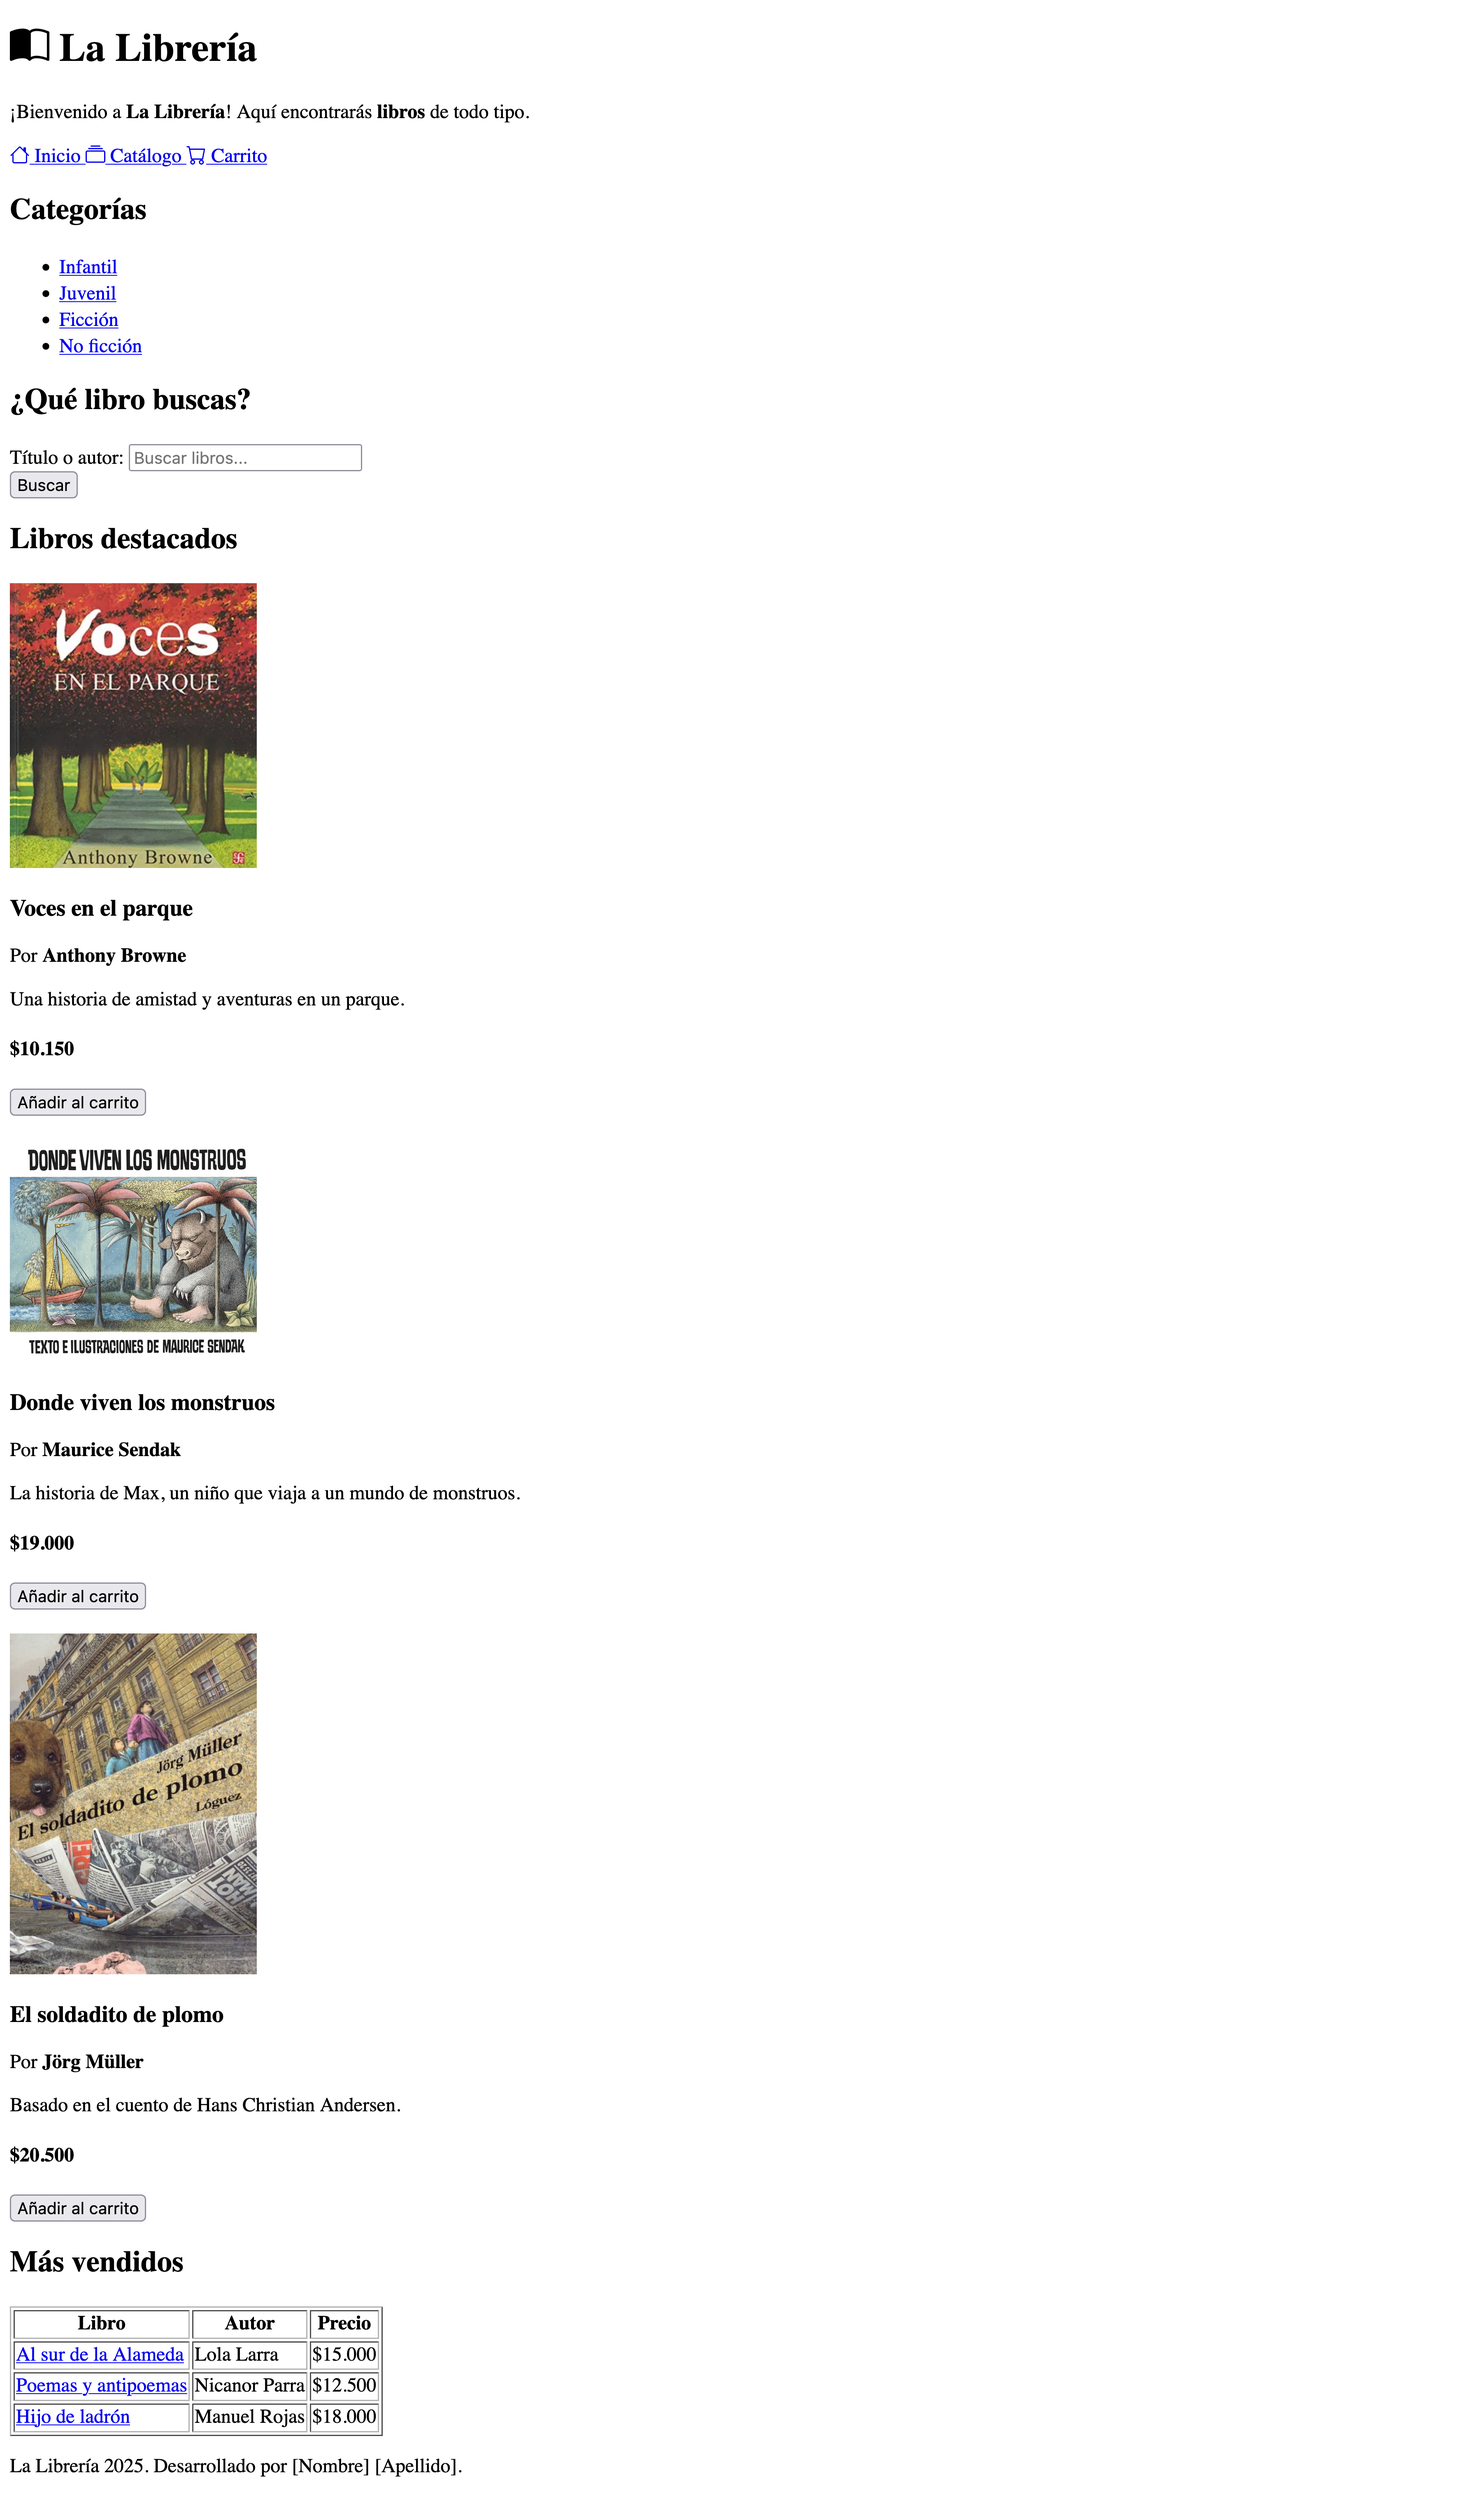
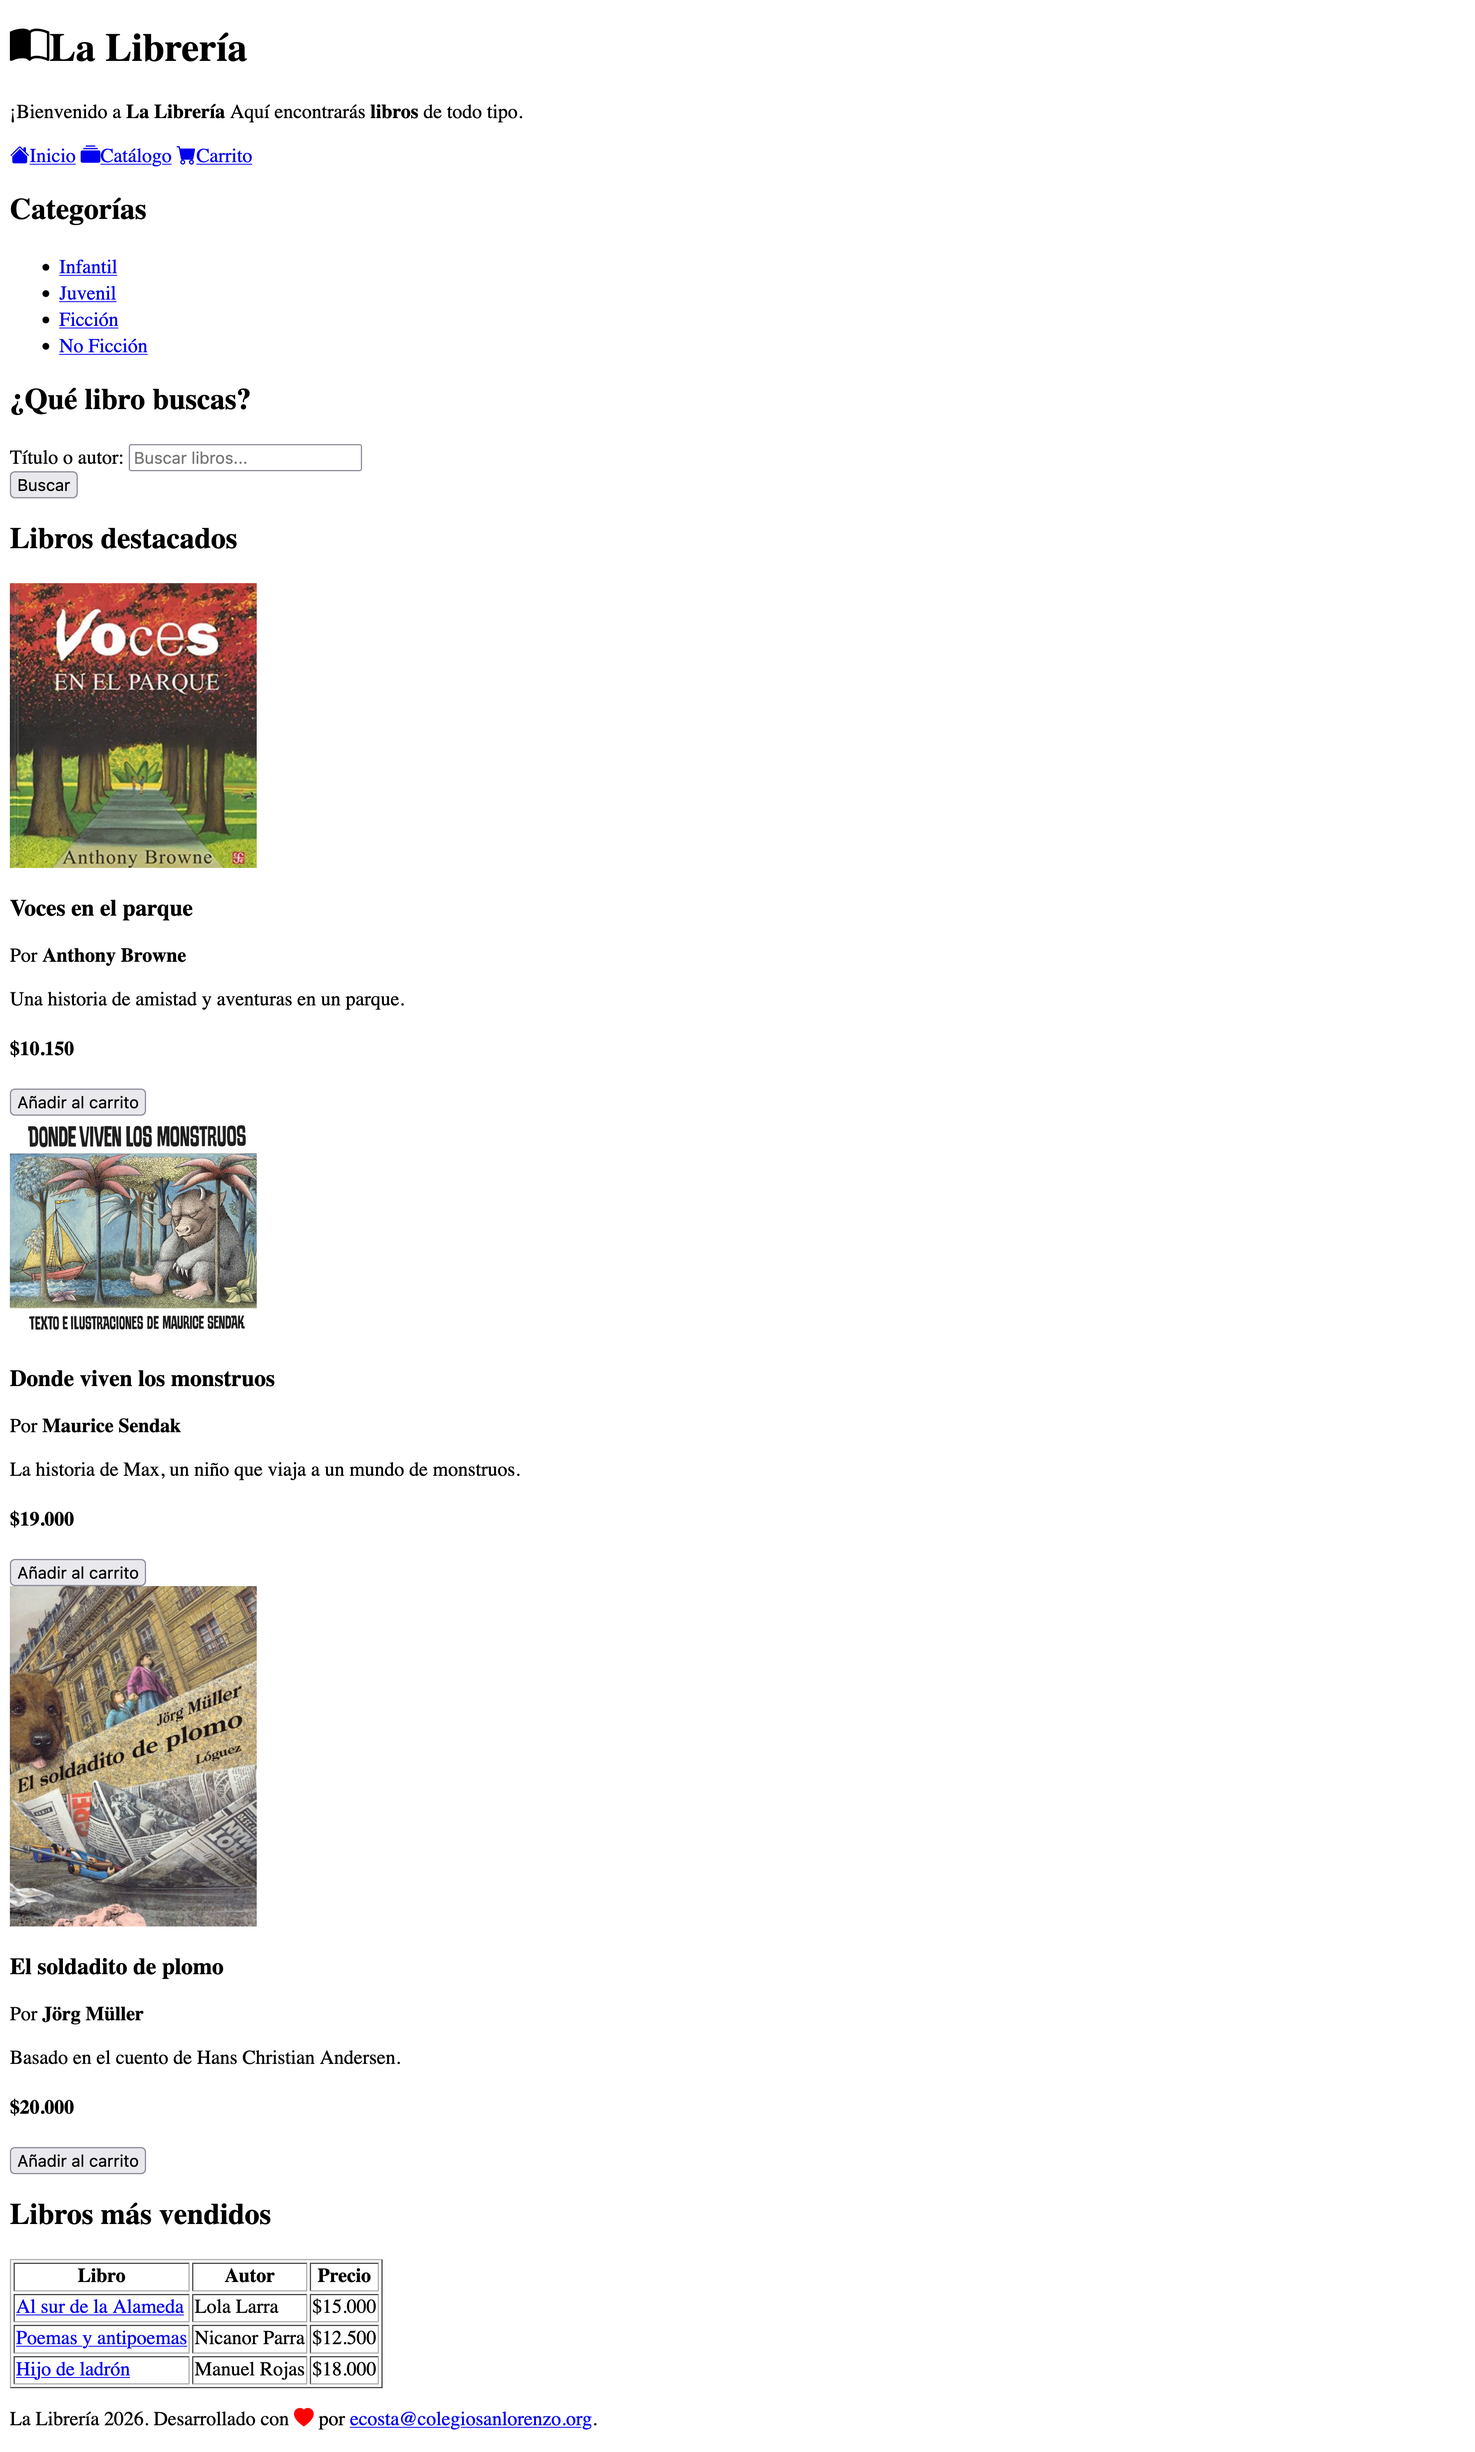
feat: agregar encabezado, barra de navegación y estilos iniciales para La Librería

diff --git a/trimestre-01/desafios/des20260330-la-libreria/index.html b/trimestre-01/desafios/des20260330-la-libreria/index.html
@@ -17,10 +17,17 @@
     <!-- Encabezado -->
     <header>
         <!-- Título del encabezado -->
-        <h1>La Librería</h1>
+        <h1><i class="bi bi-book-half"></i>La Librería</h1>
         <!-- Descripción del encabezado -->
         <p>¡Bienvenido a <strong>La Librería</strong> Aquí encontrarás <strong>libros</strong> de todo tipo.</p>
     </header>
+
+    <!-- Barra de navegación -->
+    <nav>
+        <a href="#"><i class="bi bi-house-fill"></i>Inicio</a>
+        <a href="#"><i class="bi bi-collection-fill"></i>Catálogo</a>
+        <a href="#"><i class="bi bi-cart-fill"></i>Carrito</a>
+    </nav>
 
     <!-- Sección de categorías -->
     <section>
@@ -95,6 +102,7 @@
         <table border="1">
             <!-- Encabezado de la tabla -->
             <thead>
+                <!-- Fila de encabezado -->
                 <tr>
                     <th>Libro</th>
                     <th>Autor</th>
@@ -103,16 +111,19 @@
             </thead>
             <!-- Cuerpo de la tabla -->
             <tbody>
+                <!-- Fila 1 -->
                 <tr>
                     <td><a href="#">Al sur de la Alameda</a></td>
                     <td>Lola Larra</td>
                     <td>$15.000</td>
                 </tr>
+                <!-- Fila 2 -->
                 <tr>
                     <td><a href="#">Poemas y antipoemas</a></td>
                     <td>Nicanor Parra</td>
                     <td>$12.500</td>
                 </tr>
+                <!-- Fila 3 -->
                 <tr>
                     <td><a href="#">Hijo de ladrón</a></td>
                     <td>Manuel Rojas</td>
@@ -124,7 +135,11 @@
 
     <!-- Sección pie de página -->
     <footer>
-        <p>La Librería 2026. Desarrollado con <i class="bi bi-heart-fill"></i> por ecosta@colegiosanlorenzo.org.</p>
+        <!-- Contenido del pie de página -->
+        <p>
+            La Librería 2026. Desarrollado con <i class="bi bi-heart-fill icono-corazon"></i> por
+            <a href="mailto:ecosta@colegiosanlorenzo.org">ecosta@colegiosanlorenzo.org</a>.
+        </p>
     </footer>
 
     <!-- Script JS -->

diff --git a/trimestre-01/desafios/des20260330-la-libreria/static/js/script.js b/trimestre-01/desafios/des20260330-la-libreria/static/js/script.js
@@ -1,0 +1,2 @@
+// Mensaje de bienvenida en la consola del navegador
+console.log("Bienvenido a La Librería");

diff --git a/trimestre-01/desafios/des20260330-la-libreria/static/css/style.css b/trimestre-01/desafios/des20260330-la-libreria/static/css/style.css
@@ -1,0 +1,3 @@
+.icono-corazon {
+    color: #ff0000;
+}
